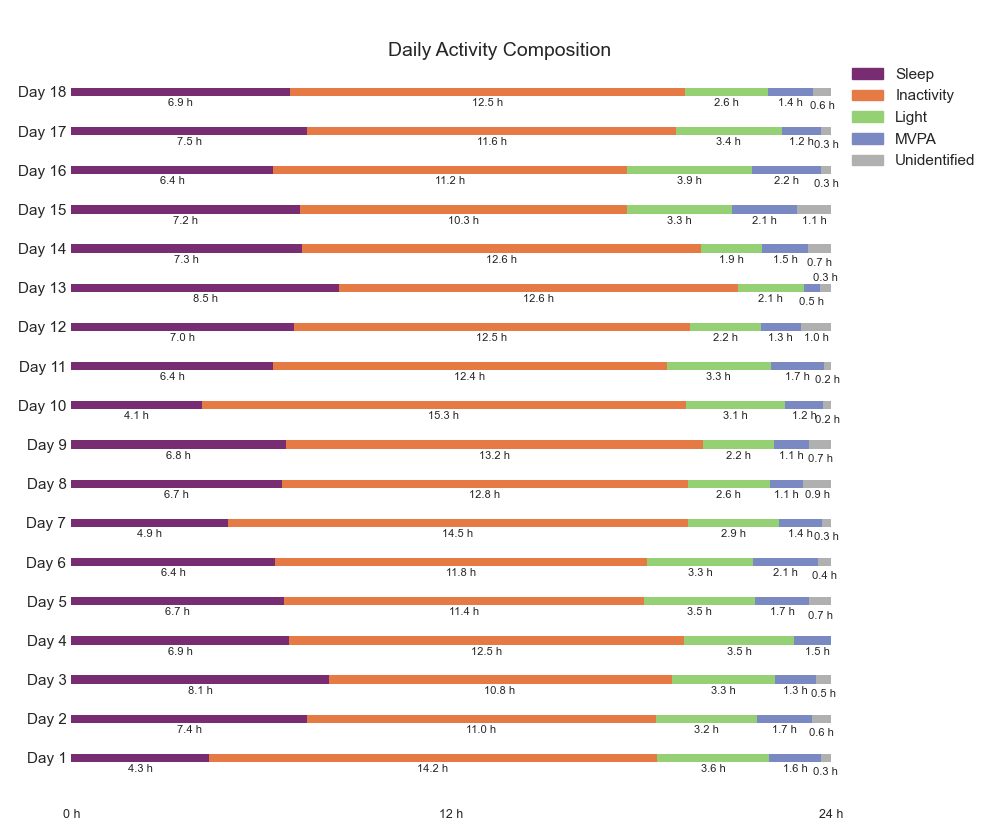
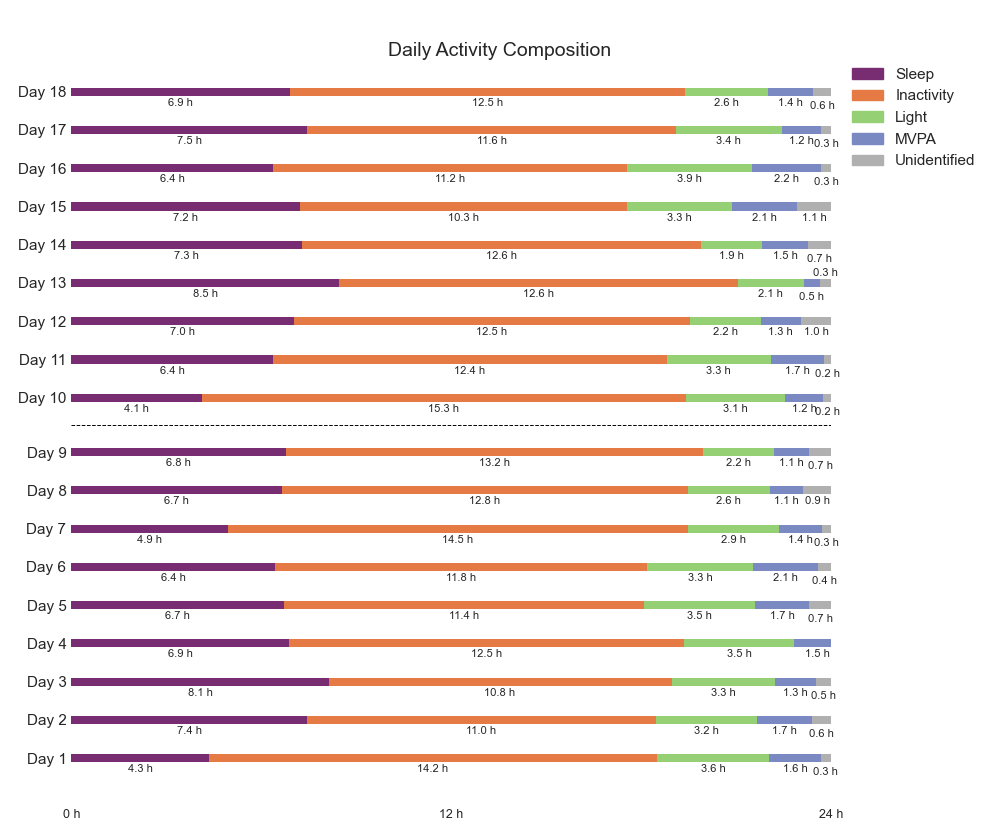
added new plot logic

Changed region(s): [[0.0, 0.1549, 0.837, 0.8677], [0.806, 0.8677, 0.837, 0.8987], [0.031, 0.8987, 0.062, 0.9297]]

diff --git a/code/utils/plots.py b/code/utils/plots.py
@@ -146,6 +146,8 @@ class ACT_PLOTS:
         dur_day_total_MOD_min, dur_day_total_VIG_min, dur_spt_min
         and a 'Day' column for labeling.
         """
+        df_day = self.df_day
+
         # Define colors
         colors = {
             "Sleep": "#782D73",         # Soft blue
@@ -159,12 +161,44 @@ class ACT_PLOTS:
         total_minutes = 24 * 60
         bar_height = 0.4
 
-        fig, ax = plt.subplots(figsize=(10, 3 + 0.3 * len(self.df_day)))
-        y_spacing = 1.9
-        y_positions = [i * y_spacing for i in range(len(self.df_day))]
-        for i, row in self.df_day.iterrows():
+        fig, ax = plt.subplots(
+            figsize=(10, 3 + 0.3 * len(df_day))
+        )
+
+        # --- 1) Compute custom y-positions with extra space between sessions ---
+        # extract session numbers from filename
+        session_nums = (
+            df_day['filename']
+            .str.extract(r'ses-(\d+)')[0]
+            .astype(int)
+        )
+        default_space = 1.9
+        extra_space = 0.8
+        y_positions = []
+        boundary_ys = []
+        current_y = 0.0
+
+        for i, sess in enumerate(session_nums):
+            if i == 0:
+                # first row
+                y_positions.append(current_y)
+            else:
+                if sess != session_nums.iat[i - 1]:
+                    # session changed → add extra_space
+                    current_y += default_space + extra_space
+                    # record midpoint for dotted line
+                    boundary = current_y - (default_space + extra_space) / 2
+                    boundary_ys.append(boundary)
+                else:
+                    # same session → normal spacing
+                    current_y += default_space
+                y_positions.append(current_y)
+
+        # --- 2) Plot each day's stacked bar at its computed y-position ---
+        min_width_for_inside_label = 45  # minutes
+        for i, (idx, row) in enumerate(df_day.iterrows()):
             y_val = y_positions[i]
-            # Build durations
+            # build durations
             durations = {
                 'Sleep': row[sleep_col],
                 'Inactivity': row['dur_day_total_IN_min'],
@@ -176,11 +210,8 @@ class ACT_PLOTS:
             if unidentified > 0:
                 durations['Unidentified'] = unidentified
 
-            min_width_for_inside_label = 45  # minutes
-
-            left = 0
-            above_toggle = False  # NEW: start with below if needed
-
+            left = 0.0
+            above_toggle = False
             for cat, val in durations.items():
                 ax.barh(
                     y=y_val,
@@ -190,21 +221,19 @@ class ACT_PLOTS:
                     color=colors[cat],
                     edgecolor='none'
                 )
-
                 center_x = left + val / 2
-
+                # choose label position
                 if val >= min_width_for_inside_label:
                     text_y = y_val - bar_height / 2 - 0.1
                     va = 'top'
                 else:
-                    # Alternate above/below for short segments
                     if above_toggle:
                         text_y = y_val + bar_height / 2 + 0.05
                         va = 'bottom'
                     else:
                         text_y = y_val - bar_height / 2 - 0.25
                         va = 'top'
-                    above_toggle = not above_toggle  # Flip toggle
+                    above_toggle = not above_toggle
 
                 if val > 1:
                     ax.text(
@@ -215,18 +244,17 @@ class ACT_PLOTS:
                         va=va,
                         fontsize=8
                     )
-
                 left += val
-                # Set y-tick labels using Day column if available, else use Day 1, Day 2, ...
-            
-            y_labels = [f"Day {i+1}" for i in range(len(self.df_day))]
 
-
-        # Day labels
+        # Day labels on y-axis
         ax.set_yticks(y_positions)
-        ax.set_yticklabels(f"Day {i+1}" for i in range(len(self.df_day)))
+        ax.set_yticklabels([f"Day {i+1}" for i in range(len(df_day))])
 
-        # Clean up axes
+        # Add dotted lines between sessions
+        for b in boundary_ys:
+            ax.axhline(y=b, color='black', linestyle='--', linewidth=0.7)
+
+        # Clean up x-axis
         ax.set_xticks([0, total_minutes/2, total_minutes])
         ax.set_xticklabels(["0 h", "12 h", "24 h"], fontsize=9)
         ax.spines[['top', 'right', 'left', 'bottom']].set_visible(False)
@@ -234,9 +262,11 @@ class ACT_PLOTS:
         ax.set_xlim(0, total_minutes)
 
         # Legend
-        handles = [plt.Rectangle((0, 0), 1, 1, color=colors[key]) for key in colors]
-        labels = list(colors.keys())
-        ax.legend(handles, labels, bbox_to_anchor=(1.01, 1), loc='upper left', frameon=False)
+        handles = [plt.Rectangle((0, 0), 1, 1, color=colors[k]) for k in colors]
+        ax.legend(handles, list(colors.keys()),
+                bbox_to_anchor=(1.01, 1),
+                loc='upper left',
+                frameon=False)
 
         fig.suptitle("Daily Activity Composition", fontsize=14, y=0.95)
         plt.tight_layout()

diff --git a/code/docs/gg.md b/code/docs/gg.md
@@ -16,3 +16,5 @@ Character (default = c()). Directory where the output needs to be stored. Note t
 Observational has 1 wear period for 7 days. Intervention has 4 total wear periods for 10 days each.
 
 
+# wear period valid check
+- as long as unidentified is < 8 hours
